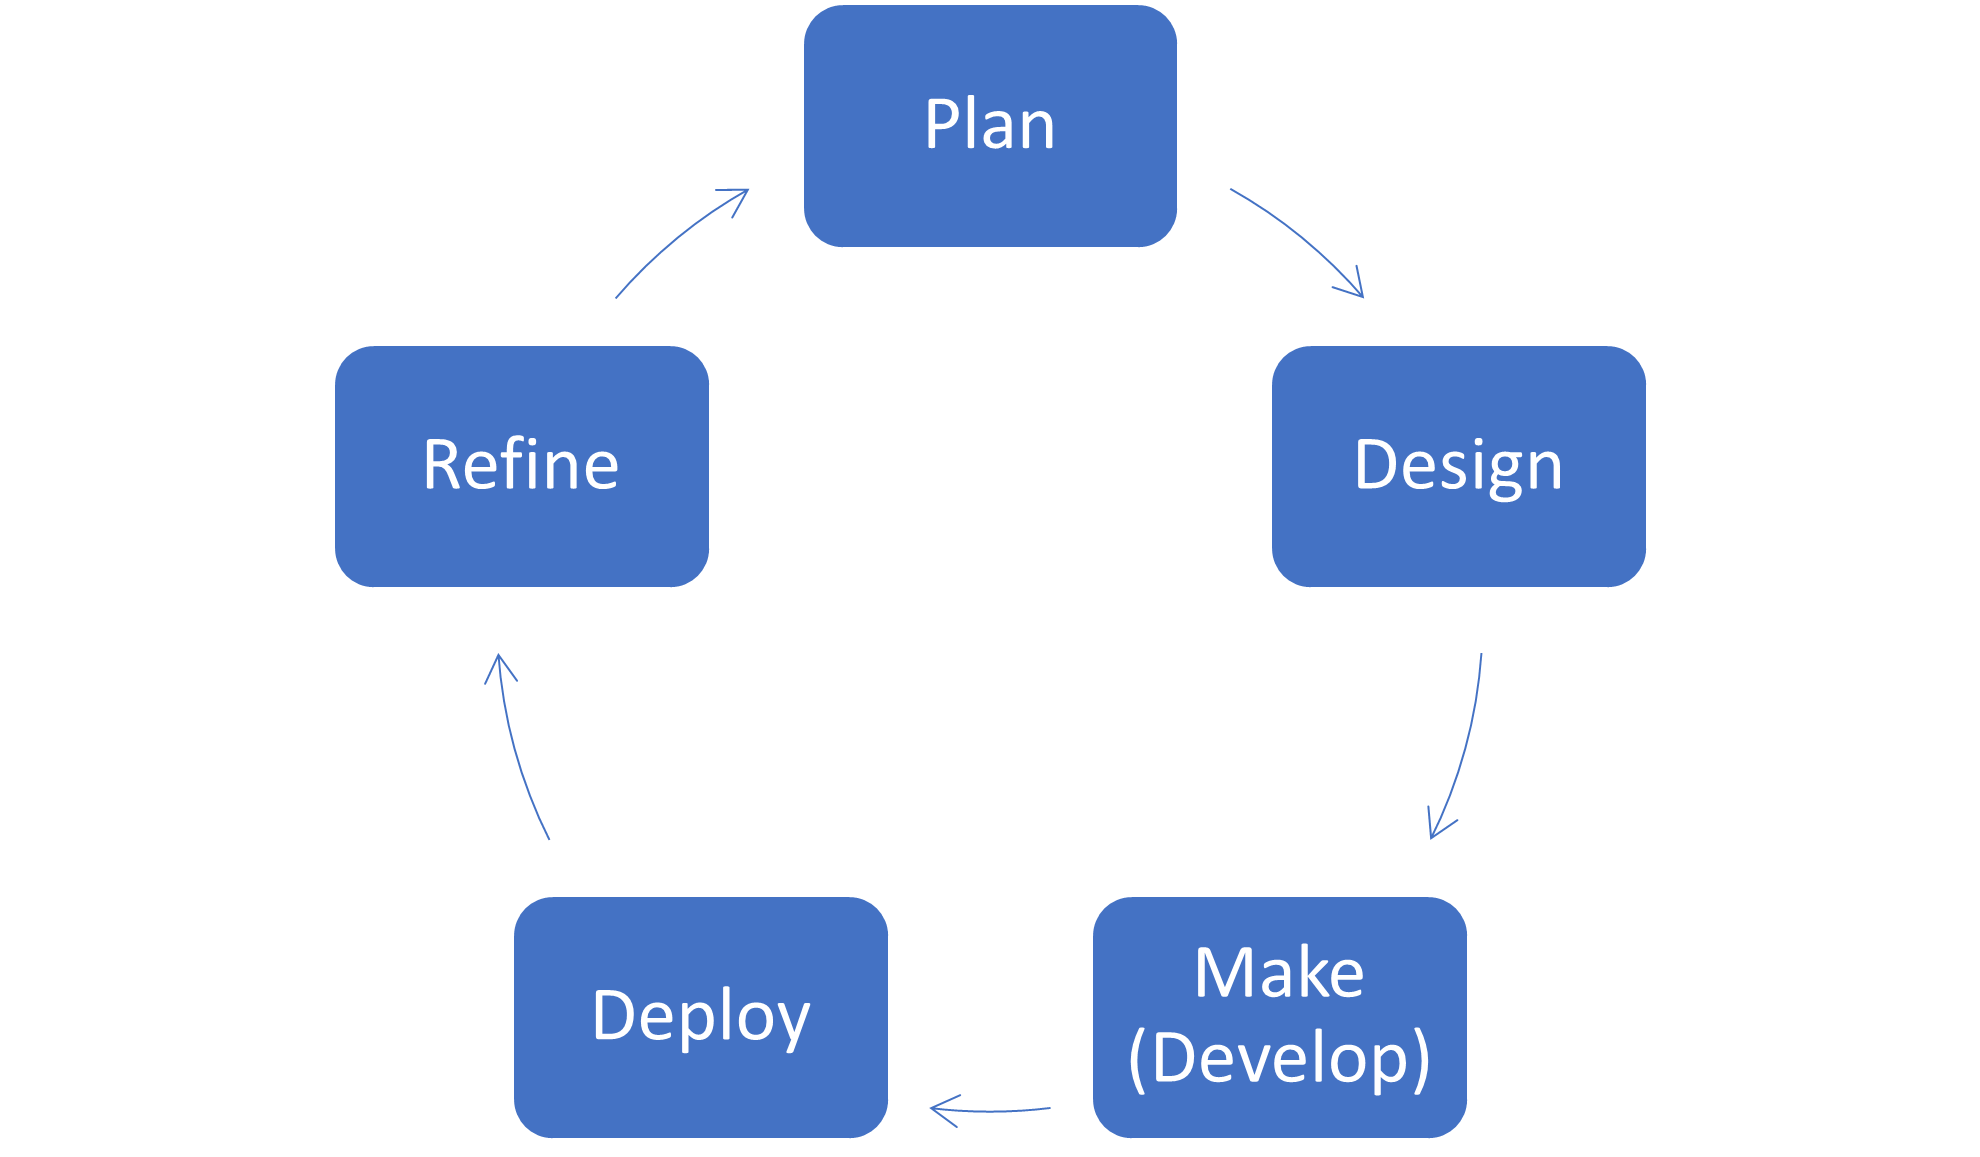
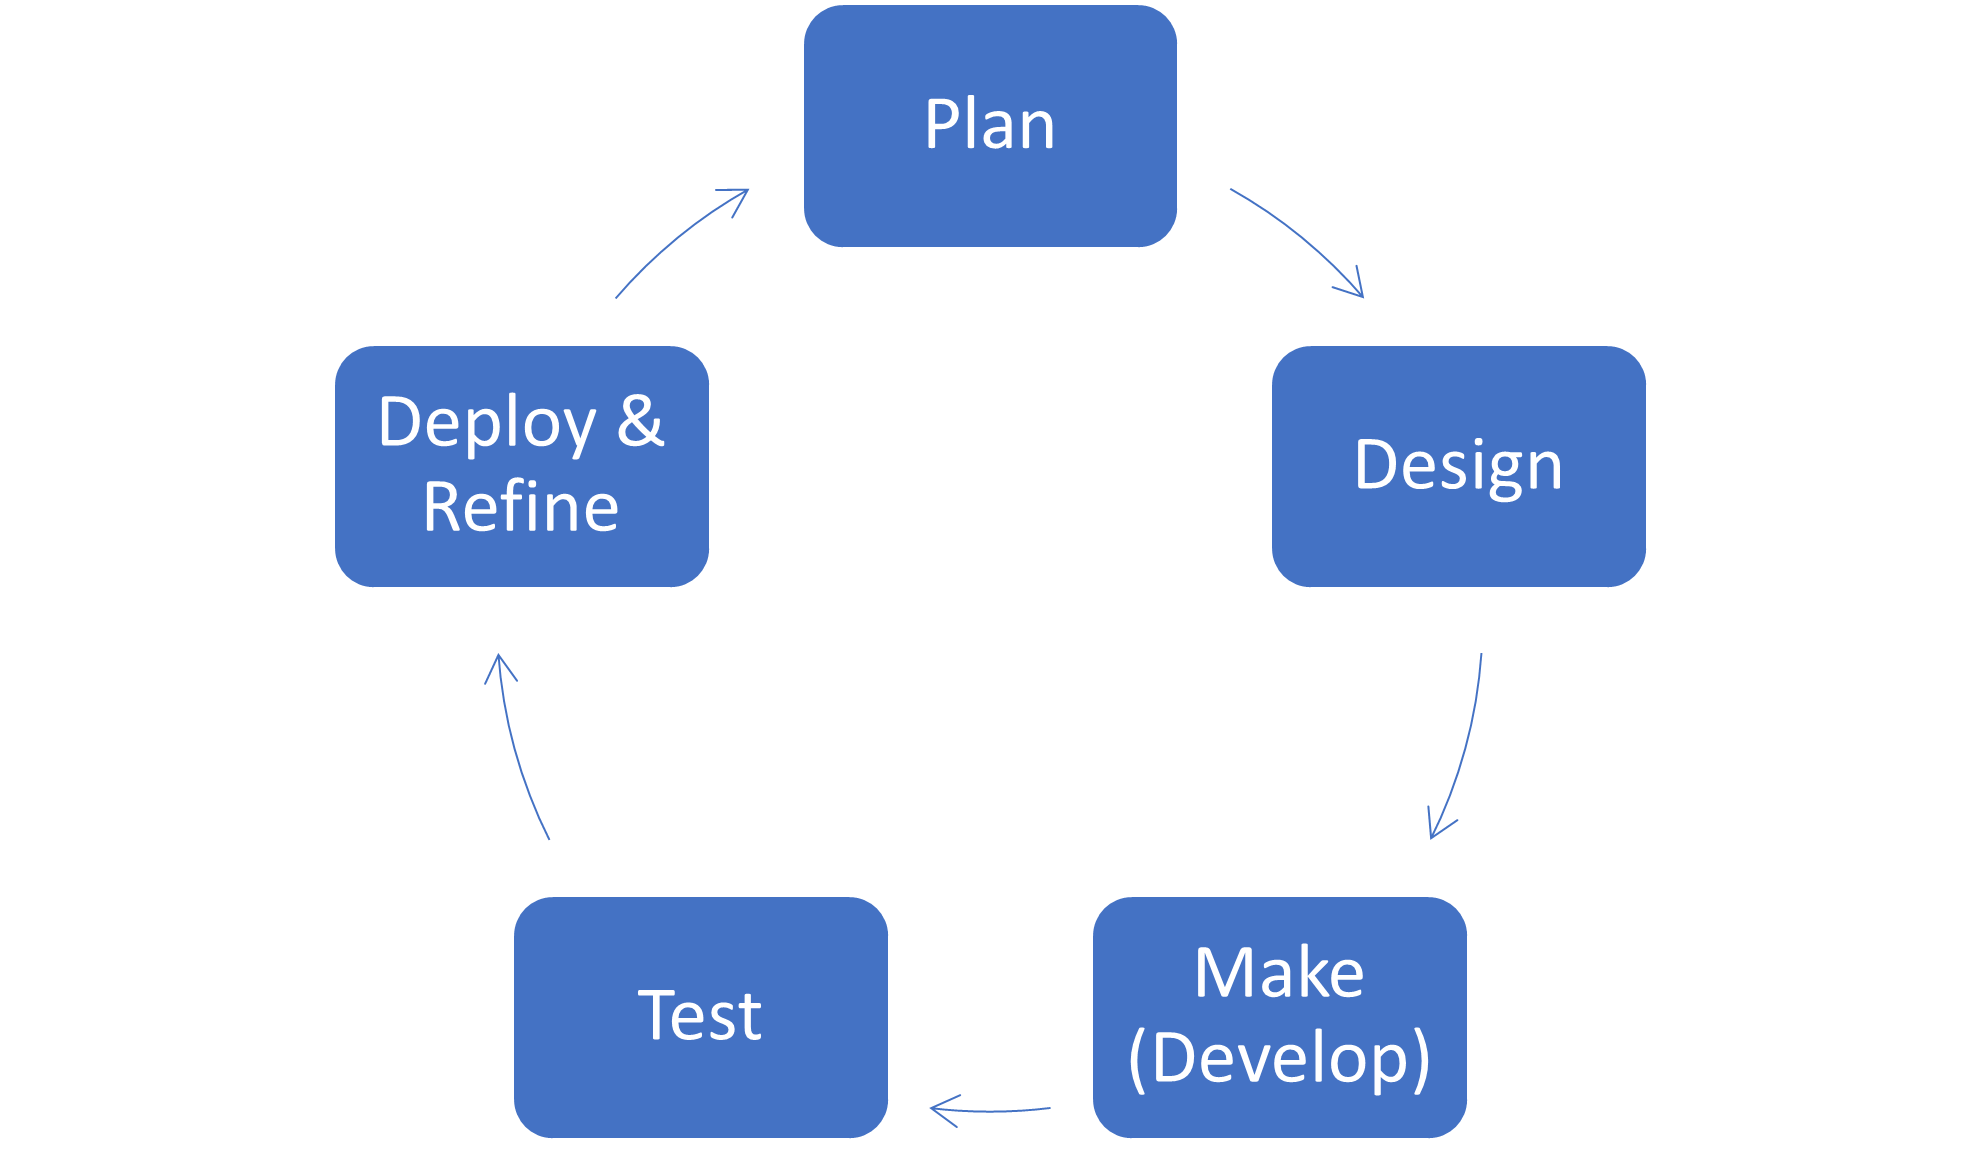
edit content

Changed region(s): [[0.1848, 0.3423, 0.3389, 0.4667], [0.2773, 0.8401, 0.4313, 0.9023]]

diff --git a/learn-bizapps-pr/powerapps/publish-share-maintain-app/includes/5-lifecycle-management.md b/learn-bizapps-pr/powerapps/publish-share-maintain-app/includes/5-lifecycle-management.md
@@ -3,7 +3,7 @@ Now that you understand the mechanics of sharing, publishing, and maintaining yo
 In the first unit, you learned that app development is not a race with a clear beginning and end, but more like a cycle. Apps are related to processes, which are constantly changing and improving. Not only that, but as new technology is released and best practices change, your apps will require more updates. This process is sometimes referred to as Application Lifecycle Management. It begins with a concept or process and continues through the first iteration of planning and subsequent development. From there it goes through testing with a small group of users, deployment to remaining users, and finally general maintenance before a change occurs and the process begins all over again.
 
 > [!div class="mx-imgBorder"]
-> [![Screenshot of the application lifecycle with steps to plan, develop, test, deploy and maintain.](../media/management-lifecycle.png)](../media/management-lifecycle.png#lightbox)
+> [![Screenshot of the application lifecycle with steps to plan, design, develop, test, deploy and refine.](../media/app-lifecycle.png)](../media/app-lifecycle.png#lightbox)
 
 Consider the Travel Expense App example we created in this learning path. If you choose to add an approvals piece, you'll need to go back to the planning phase to consider how that fits into your existing data model. Next, you will need to plan and build out the screens, then roll out to a small group of users for testing. Finally you can deploy your app, rolling it out to all users and then maintain it until the next major change, such as adding in expenses other than travel.
 

diff --git a/learn-bizapps-pr/powerapps/publish-share-maintain-app/includes/1-introduction.md b/learn-bizapps-pr/powerapps/publish-share-maintain-app/includes/1-introduction.md
@@ -1,8 +1,8 @@
 You've put a lot of effort into planning and building your app, but you're still not at the end of your journey. No app is done after the first build and may never be complete. Instead, consider app building as a cycle rather than a race with a clear beginning and end. You have nearly completed a full rotation of the cycle, but testing, refining, and changing requirements will push your development through to additional cycles. Ensure that you still take the time to plan and design with each new iteration of your app.
 
 > [!div class="mx-imgBorder"]
-> [![Screenshot of the app iteration lifecycle with steps to Plan, Design, Make, Deploy and Refine.](../media/app-lifecycle.png)](../media/app-lifecycle.png#lightbox)
+> [![Screenshot of the app iteration lifecycle with steps to plan, design, develop, test, deploy and refine.](../media/app-lifecycle.png)](../media/app-lifecycle.png#lightbox)
 
-As you can see, the remaining phases in the cycle are Deploy and Refine.
+As you can see, the remaining phase in the cycle is Deploy and Refine.
 
 Let's walk through how to do these and discuss some of the practical aspects of maintaining your canvas app.

diff --git a/learn-bizapps-pr/powerapps/publish-share-maintain-app/includes/2-publish-app.md b/learn-bizapps-pr/powerapps/publish-share-maintain-app/includes/2-publish-app.md
@@ -2,9 +2,6 @@ You may have noticed that once you save your application, you can publish and sh
 
 In our example, we've yet to publish the Travel Expense App but that is what we're about to do in this unit. Let's get to it!
 
-> [!NOTE]
-> If your app is still open in Power Apps Studio from the previous module, then you can skip steps 1-3.
-
 1. In your browser, navigate to [http://make.powerapps.com](http://make.powerapps.com/?azure-portal=true).
 
 1. Select **Apps**, on the left.
